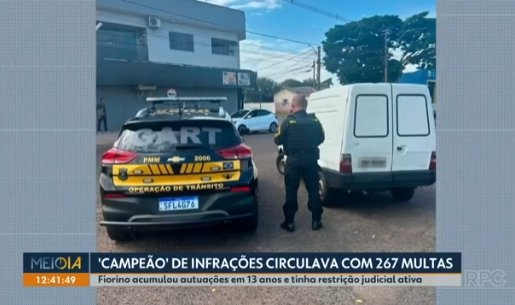
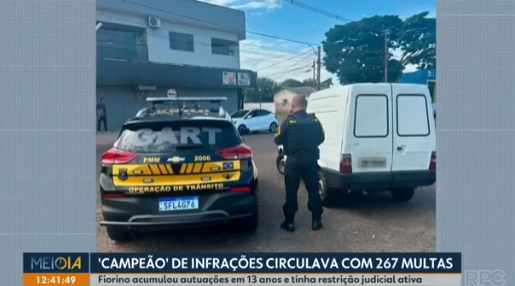
fix: prevent home news carousel overflow

diff --git a/mobile/lib/features/home/screens/home_screen.dart b/mobile/lib/features/home/screens/home_screen.dart
@@ -158,7 +158,7 @@ class _HomeScreenState extends State<HomeScreen> {
         );
       },
       options: CarouselOptions(
-        height: 230,
+        height: 250,
         viewportFraction: 0.78,
         enlargeCenterPage: true,
         enableInfiniteScroll: homeNewsMock.length > 1,
